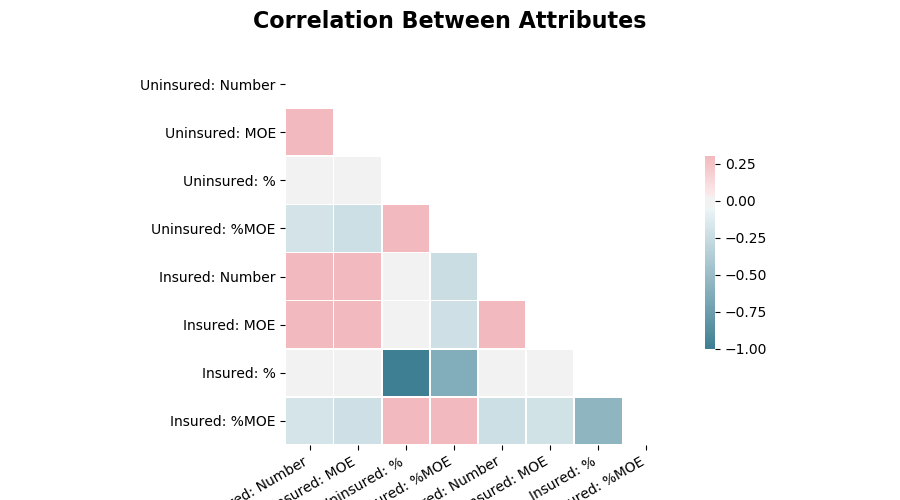
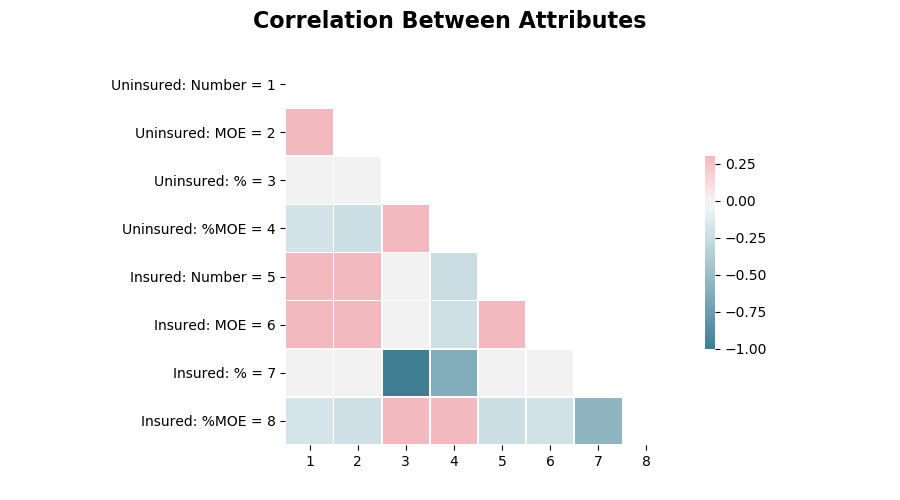
Add start of final report

diff --git a/health_analyis.py b/health_analyis.py
@@ -188,13 +188,13 @@ def distribution_plot(df, column_name, target_column, xlab, ylab, title, filenam
 
 def heatmap(df, filename):
     corr = df.corr()
+    ylabels = ["{} = {}".format(col, x + 1) for x, col in enumerate(list(corr.columns))]
+    xlabels = [str(x + 1) for x in range(len(ylabels))]
     mask = np.zeros_like(corr, dtype=np.bool)
     mask[np.triu_indices_from(mask)] = True
     f, ax = plt.subplots(figsize=(9, 5))
     cmap = sns.diverging_palette(220, 10, as_cmap=True)
-    ax.set_xticklabels(list(df.columns), rotation = 45, ha="right")
-    plt.xticks(rotation=30)
-    sns.heatmap(corr, mask=mask, cmap=cmap, vmax=0.3, center=0, square=True, linewidths=0.5, cbar_kws={"shrink": 0.5})
+    sns.heatmap(corr, mask=mask, cmap=cmap, xticklabels=xlabels, yticklabels=ylabels, vmax=0.3, center=0, square=True, linewidths=0.5, cbar_kws={"shrink": 0.5})
     plt.yticks(rotation=0)
     plt.suptitle("Correlation Between Attributes", fontweight="bold", fontsize=16)
     plt.savefig(filename)

diff --git a/Predicting_Health_Costs.md b/Predicting_Health_Costs.md
@@ -1,0 +1,65 @@
+# Medicare Spending Across the United States
+
+### Overview
+
+[data](https://github.com/brendan-drew/County-Medicare-Spending/tree/master/data)
+
+### Guiding Questions/Goals
+
+1. Is there a statistically significant difference in the percentage of uninsured individuals across states?
+
+2. Has there been a statistically significant change in the percentage of uninsured from year to year (2006 - 2014)?
+
+3. Predict total spending on medical expenses (aggregated across states)
+
+
+### Hypothesis Tests
+
+For both hypothesis tests, my signficance level will be 0.05
+
+#### Question
+
+Has there been a statistically significant change in the percentage of uninsured individuals from year to year (2006 - 2014)?
+
+* *Null Hypothesis: There is no significant difference between the average percentage of uninsured individuals from year to year*
+
+* *Alternative Hypothesis: At least one of the years have a different average percent of uninsured individuals than the other years* 
+
+##### Visual Exploration
+
+![](figures/year_vs_uninsured.png)
+
+#### Question
+
+Is there a statistically significant difference in the percentage of uninsured individuals across states?
+
+* *Null Hypothesis: There is no significant difference between the means of the percentage of the population uninsured across states (Washington, D.C as separate state).*
+
+* *Alternative Hypothesis: At least one of the states have a higher mean percent uninsured than the other states*
+
+##### Visual Exploration
+
+![](figures/state_vs_uninsured_bar.png)
+
+![](figures/state_vs_uninsured.png)
+
+##### Statistical Exploration
+
+With an F-Statistic of `1013` and a P-value well below our
+
+```
+state_anova <- aov(percent_uninsured ~ state, data=df)
+summary(state_anova)
+
+               Df | Sum Sq |  Mean Sq | F value | Pr(>F)    
+state          50   603282    12066      1013    <2e-16 ***
+Residuals   28680   341498     12                   
+---
+Signif. codes:  0 ‘***’ 0.001 ‘**’ 0.01 ‘*’ 0.05 ‘.’ 0.1 ‘ ’ 1
+```
+
+
+
+
+
+![](figures/heatmap.png)
